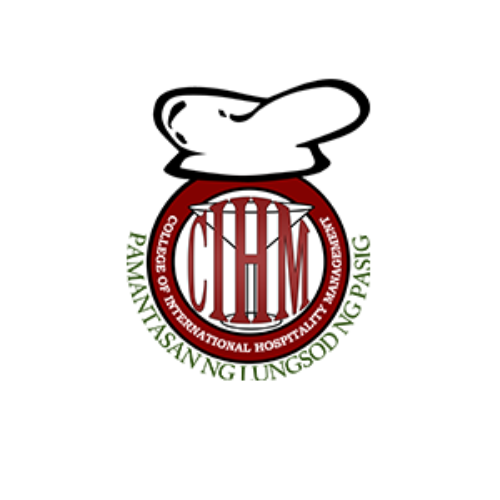
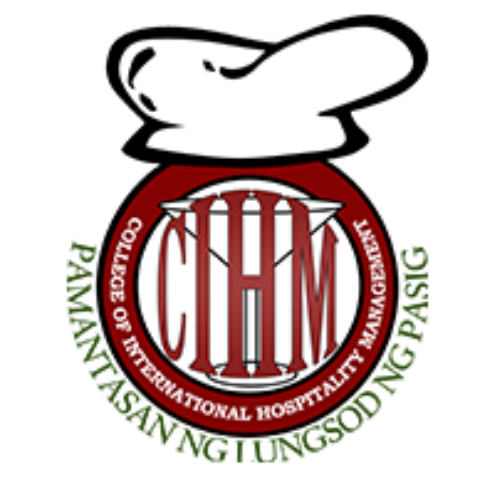
inayos ko lang mga bagong image

diff --git a/dashboarddb.php b/dashboarddb.php
@@ -479,6 +479,7 @@ json_encode($departmentCounts);
             display: flex;
             justify-content: center;
             align-items: center;
+            margin-top: 10px;
         }
 
         .logo-overlay img {
@@ -583,12 +584,12 @@ json_encode($departmentCounts);
                             </canvas>
 
                             <!-- Department Logo -->
-                            <!-- <div class="logo-overlay">
+                            <div class="logo-overlay">
                                 <?php
                                 $imageFile = strtolower($dept) === 'con' ? 'con_con.png' : strtolower($dept) . '.png'; 
                                 ?>
                                 <img src="img/<?php echo $imageFile; ?>" alt="<?php echo $dept; ?>">
-                            </div> -->
+                            </div>
 
                             <!-- Hover Text -->
                             <div class="hover-info">

diff --git a/cba_dean.php b/cba_dean.php
@@ -6,7 +6,7 @@
     <meta name="viewport" content="width=device-width, initial-scale=1.0">
     <link href='https://unpkg.com/boxicons@2.1.4/css/boxicons.min.css' rel='stylesheet'>
     <link rel="stylesheet" href="https://cdnjs.cloudflare.com/ajax/libs/font-awesome/6.1.1/css/all.min.css">
-    <link rel="icon" type="image/png" sizes="32x32" href="img/plp.png">
+    <link rel="icon" type="image/png" sizes="32x32" href="img/new_cba.png">
     <title>CBA Dean</title>
     <script src="https://cdnjs.cloudflare.com/ajax/libs/jspdf/2.4.0/jspdf.umd.min.js"></script>
     <script src="https://cdnjs.cloudflare.com/ajax/libs/jspdf-autotable/3.5.25/jspdf.plugin.autotable.min.js"></script>

diff --git a/ccs_dean.php b/ccs_dean.php
@@ -6,7 +6,7 @@
     <meta name="viewport" content="width=device-width, initial-scale=1.0">
     <link href='https://unpkg.com/boxicons@2.1.4/css/boxicons.min.css' rel='stylesheet'>
     <link rel="stylesheet" href="https://cdnjs.cloudflare.com/ajax/libs/font-awesome/6.1.1/css/all.min.css">
-    <link rel="icon" type="image/png" sizes="32x32" href="img/plp.png">
+    <link rel="icon" type="image/png" sizes="32x32" href="img/new_ccs.png">
     <title>CCS</title>
     <script src="https://cdnjs.cloudflare.com/ajax/libs/jspdf/2.4.0/jspdf.umd.min.js"></script>
     <script src="https://cdnjs.cloudflare.com/ajax/libs/jspdf-autotable/3.5.25/jspdf.plugin.autotable.min.js"></script>
